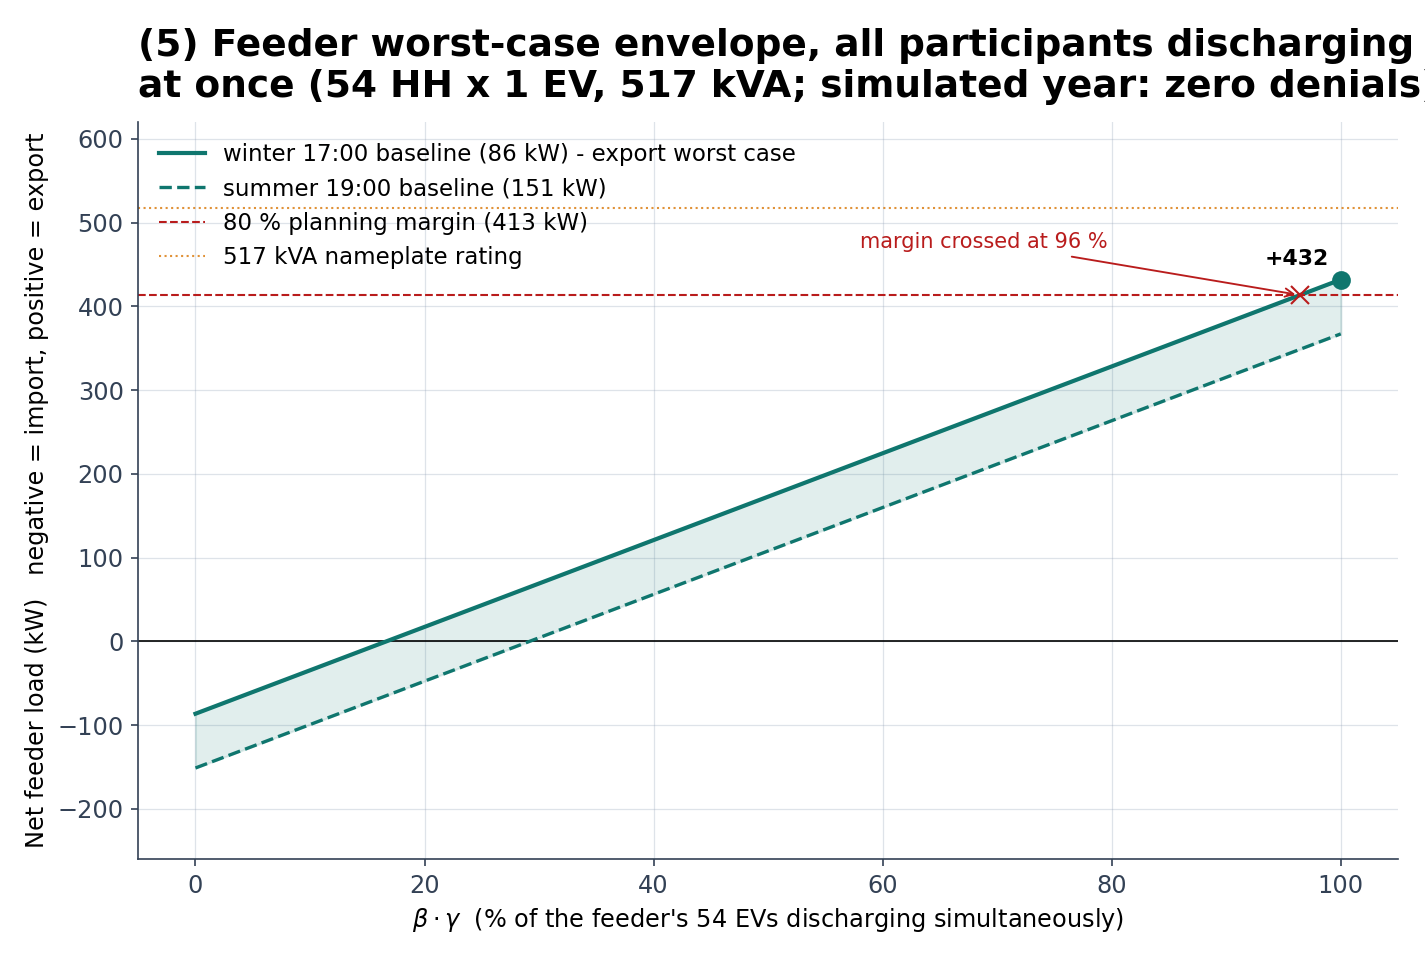
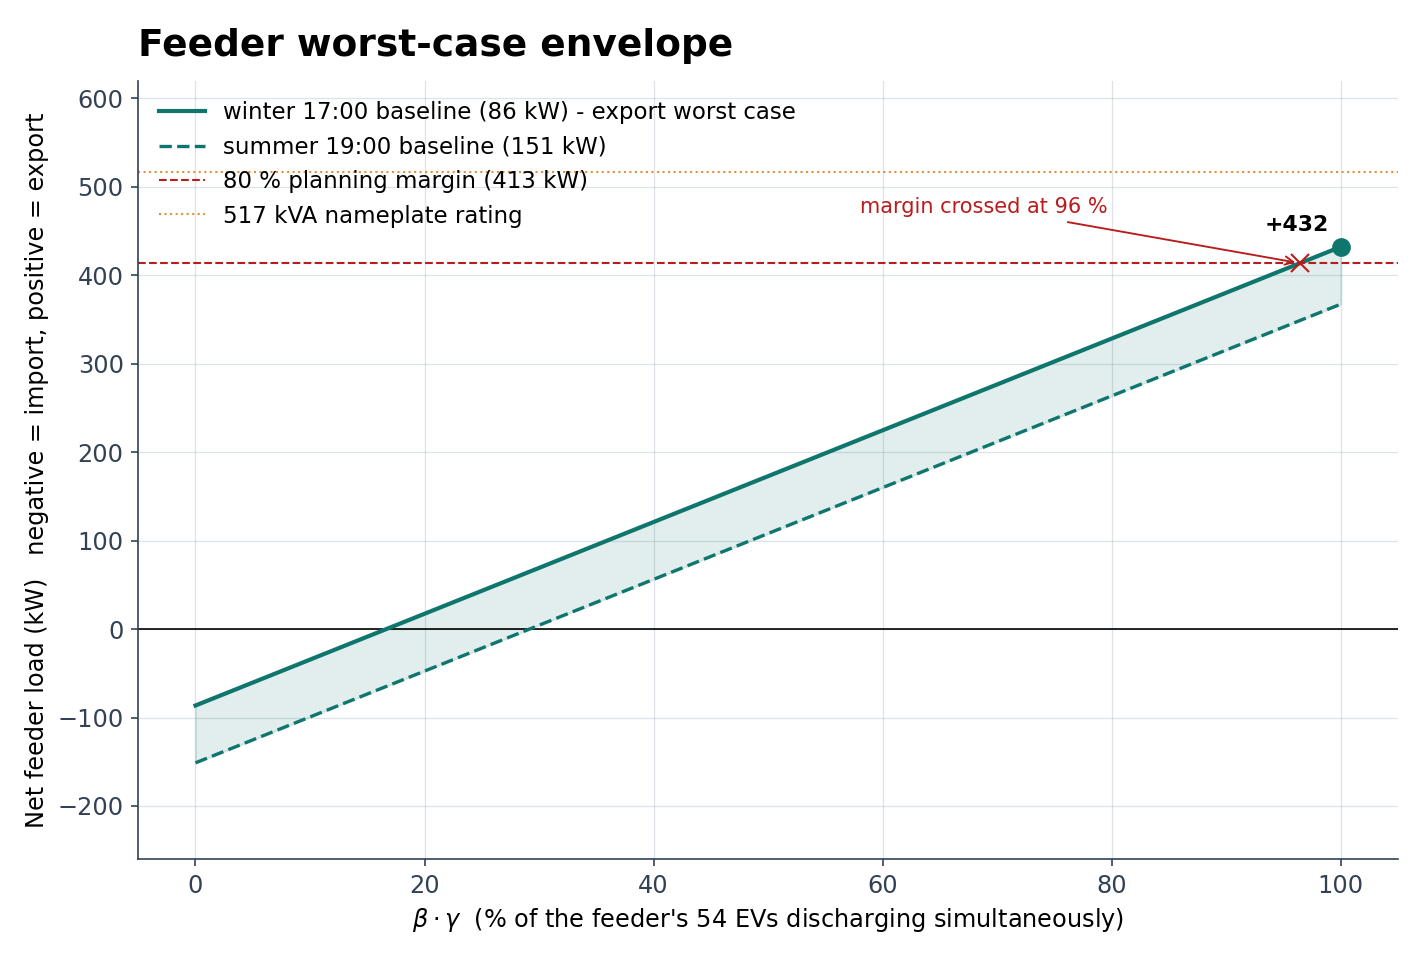
git add -A git commit -m "Sensitivity panels renumbered sequentially (1)-(8) with short non-colliding titles, feeder-envelope figure retitled without panel number, Fig 5.3 panel titles to standard printed size" git push origin

diff --git a/src/plot_w12t_sensitivity_split.py b/src/plot_w12t_sensitivity_split.py
@@ -32,7 +32,7 @@ def panel_capex(ax):
     ax.axhline(10, color="#b91c1c", linestyle="--", linewidth=1,
                label="10-yr battery life")
     ax.set_ylabel("V2G premium payback (years)", fontsize=11.5)
-    ax.set_title("(1) Bidirectional charger CAPEX, 2026 vs 2028",
+    ax.set_title("(1) Charger CAPEX, 2026 vs 2028",
                  fontsize=18.0, fontweight="bold")
     ax.set_ylim(0, 12)
     ax.legend(fontsize=11.5, loc="upper right")
@@ -54,7 +54,7 @@ def panel_uk_rate(ax):
                alpha=0.7, label="current Power Pack 12 p")
     ax.set_xlabel("Power Pack export rate (p/kWh)", fontsize=11.5)
     ax.set_ylabel("Payback (years)", fontsize=11.5)
-    ax.set_title("(2) UK Power Pack rate sweep (net of Go recharge)",
+    ax.set_title("(2) Power Pack export rate sweep",
                  fontsize=18.0, fontweight="bold")
     ax.legend(fontsize=11.5, loc="upper right")
     ax.grid(True, alpha=0.3)
@@ -94,7 +94,7 @@ def panel_plugin(ax):
                label="Wong Table 1 anchor (87 %)")
     ax.set_xlabel("Plug-in probability (% of home evenings)", fontsize=11.5)
     ax.set_ylabel("Daily Charger V2G kWh/yr", fontsize=11.5)
-    ax.set_title("(4) Plug-in probability robustness (3-seed avg, 90 % cap)",
+    ax.set_title("(5) Plug-in probability",
                  fontsize=18.0, fontweight="bold")
     ax.legend(fontsize=11.5, loc="lower right")
     ax.grid(True, alpha=0.3)
@@ -115,7 +115,7 @@ def panel_return_home(ax):
         ax.text(h, v + 60, f"{v:,}", ha="center", fontsize=10.5, fontweight="bold")
     ax.set_xlabel("Arrival home hour", fontsize=11.5)
     ax.set_ylabel("Daily Charger V2G kWh/yr", fontsize=11.5)
-    ax.set_title("(6) Return-home hour sensitivity (3-seed avg, 90 % cap)",
+    ax.set_title("(6) Return-home hour",
                  fontsize=18.0, fontweight="bold")
     ax.legend(fontsize=11.5, loc="lower left")
     ax.grid(True, alpha=0.3)
@@ -145,8 +145,7 @@ def panel_drive_days(ax):
                 fontweight="bold", color="#1d4ed8")
     ax.set_xlabel("Driving days per week", fontsize=11.5)
     ax.set_ylabel("Annual V2G kWh / car", fontsize=11.5)
-    ax.set_title("(7) Drive-days sensitivity (3-seed avg, 90 % cap)\n"
-                 "matched 87 % plug-in; curves converge at 0 d/wk",
+    ax.set_title("(7) Driving days per week",
                  fontsize=18.0, fontweight="bold")
     ax.set_xticks(drive_days)
     ax.legend(fontsize=11.5, loc="lower left")
@@ -188,8 +187,7 @@ def panel_grid(ax):
                   "discharging simultaneously)", fontsize=11.5)
     ax.set_ylabel("Net feeder load (kW)   negative = import, positive = export",
                   fontsize=11.5)
-    ax.set_title("(5) Feeder worst-case envelope, all participants discharging\n"
-                 "at once (54 HH x 1 EV, 517 kVA; simulated year: zero denials)",
+    ax.set_title("Feeder worst-case envelope",
                  fontsize=18.0, fontweight="bold")
     ax.legend(fontsize=11.0, loc="upper left")
     ax.grid(True, alpha=0.3)

diff --git a/src/plot_w13d_sensitivity_pairs.py b/src/plot_w13d_sensitivity_pairs.py
@@ -56,7 +56,7 @@ def panel_taoz_net(ax):
                         for r in ratios], fontsize=11.5)
     ax.set_xlabel("TAOZ peak / off-peak ratio", fontsize=11.5)
     ax.set_ylabel("Annual NET V2G revenue (NIS / opted-in EV)", fontsize=11.5)
-    ax.set_title("(3) Israel TAOZ spread (NET basis)",
+    ax.set_title("(3) TAOZ spread (NET basis)",
                  fontsize=18.0, fontweight="bold")
     ax.legend(fontsize=13.0, loc="upper left")
     ax.grid(True, axis="y", alpha=0.3)
@@ -82,7 +82,7 @@ def panel_floor(ax):
                label="contractual floor 50 %")
     ax.set_xlabel("V2G SoC floor (%)", fontsize=11.5)
     ax.set_ylabel("Annual NET V2G revenue (NIS / opted-in EV)", fontsize=11.5)
-    ax.set_title("(4) SoC floor sweep (3-seed avg, 90 % cap)",
+    ax.set_title("(4) SoC floor sweep",
                  fontsize=18.0, fontweight="bold")
     ax.set_xticks(floors)
     ax.set_ylim(2900, 9400)
@@ -121,7 +121,7 @@ def panel_gamma_aggregator(ax):
     ax.set_xlabel("shift in standard deviations (gamma-2 mapped 0.30-0.70)",
                   fontsize=11.5)
     ax.set_ylabel("Change in aggregator total revenue (%)", fontsize=11.5)
-    ax.set_title("(8) Aggregator revenue vs behavioural inputs and gamma-2",
+    ax.set_title("(8) Aggregator revenue sensitivity",
                  fontsize=18.0, fontweight="bold")
     ax.legend(fontsize=13.0, loc="upper left")
     ax.grid(True, alpha=0.3)

diff --git a/src/plot_w15c_scaling_scenarios.py b/src/plot_w15c_scaling_scenarios.py
@@ -79,7 +79,7 @@ def main() -> None:
 
     ax1.set_xlabel("EVs per household on the feeder (all discharging at once)")
     ax1.set_ylabel("Net feeder load (kW)")
-    ax1.set_title("(a) Feeder worst case as EV ownership deepens")
+    ax1.set_title("(a) Feeder worst case as ownership deepens", fontsize=17)
     ax1.legend(fontsize=9.5, loc="upper left")
     ax1.set_ylim(-260, 900)
 
@@ -97,7 +97,7 @@ def main() -> None:
              color=PALETTE["neutral"])
     ax2.set_xlabel("EV share of the national fleet, alpha (%)")
     ax2.set_ylabel("National NET V2G pool (millions of NIS per year)")
-    ax2.set_title("(b) National revenue pool toward the 2030 target")
+    ax2.set_title("(b) National pool toward the 2030 target", fontsize=17)
     ax2.legend(fontsize=9.5, loc="upper left")
     ax2.set_xlim(4, 33)
 
